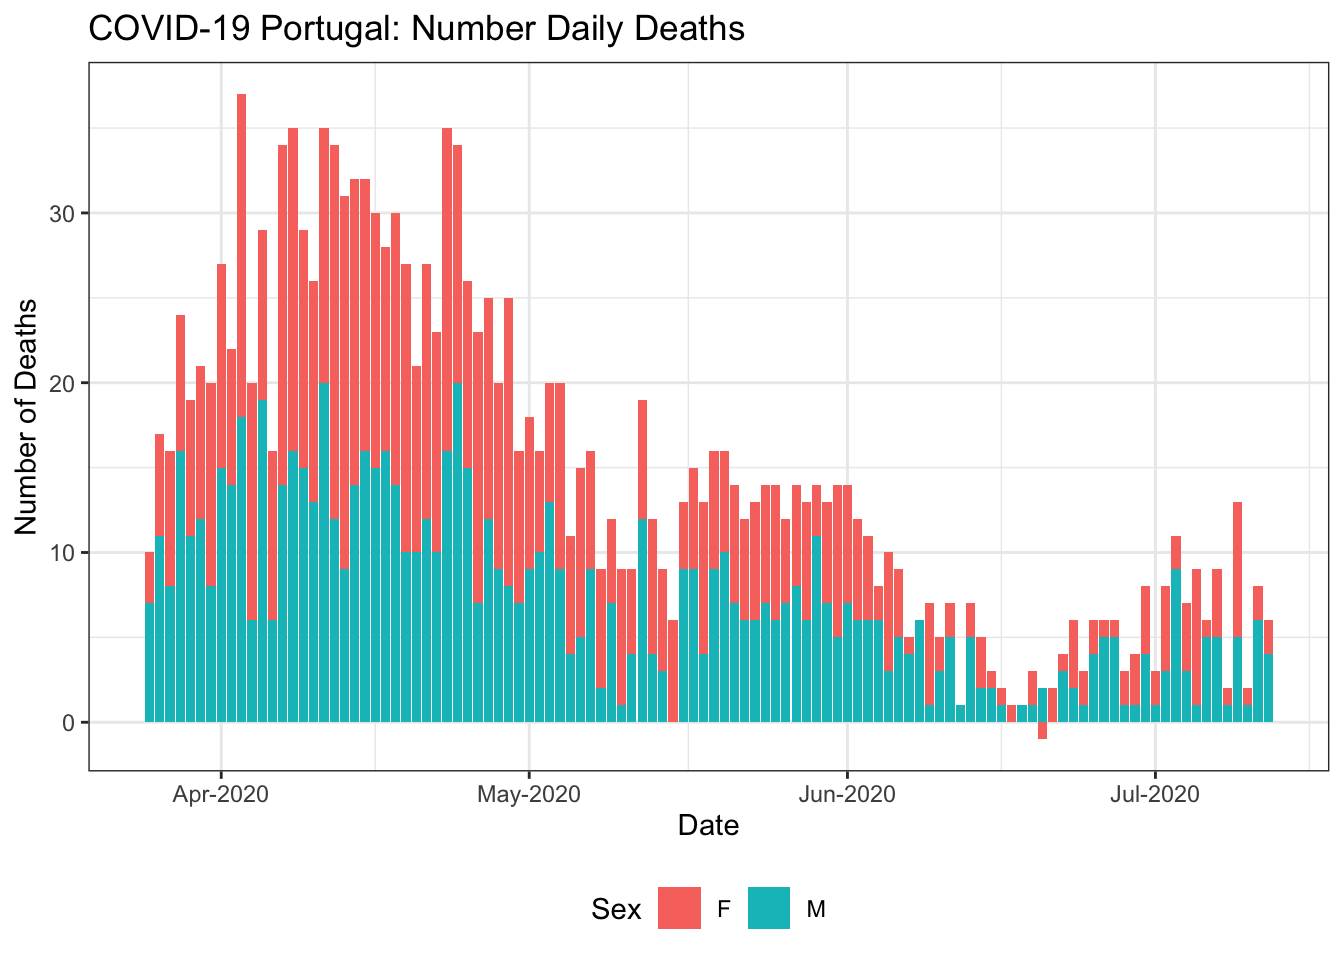
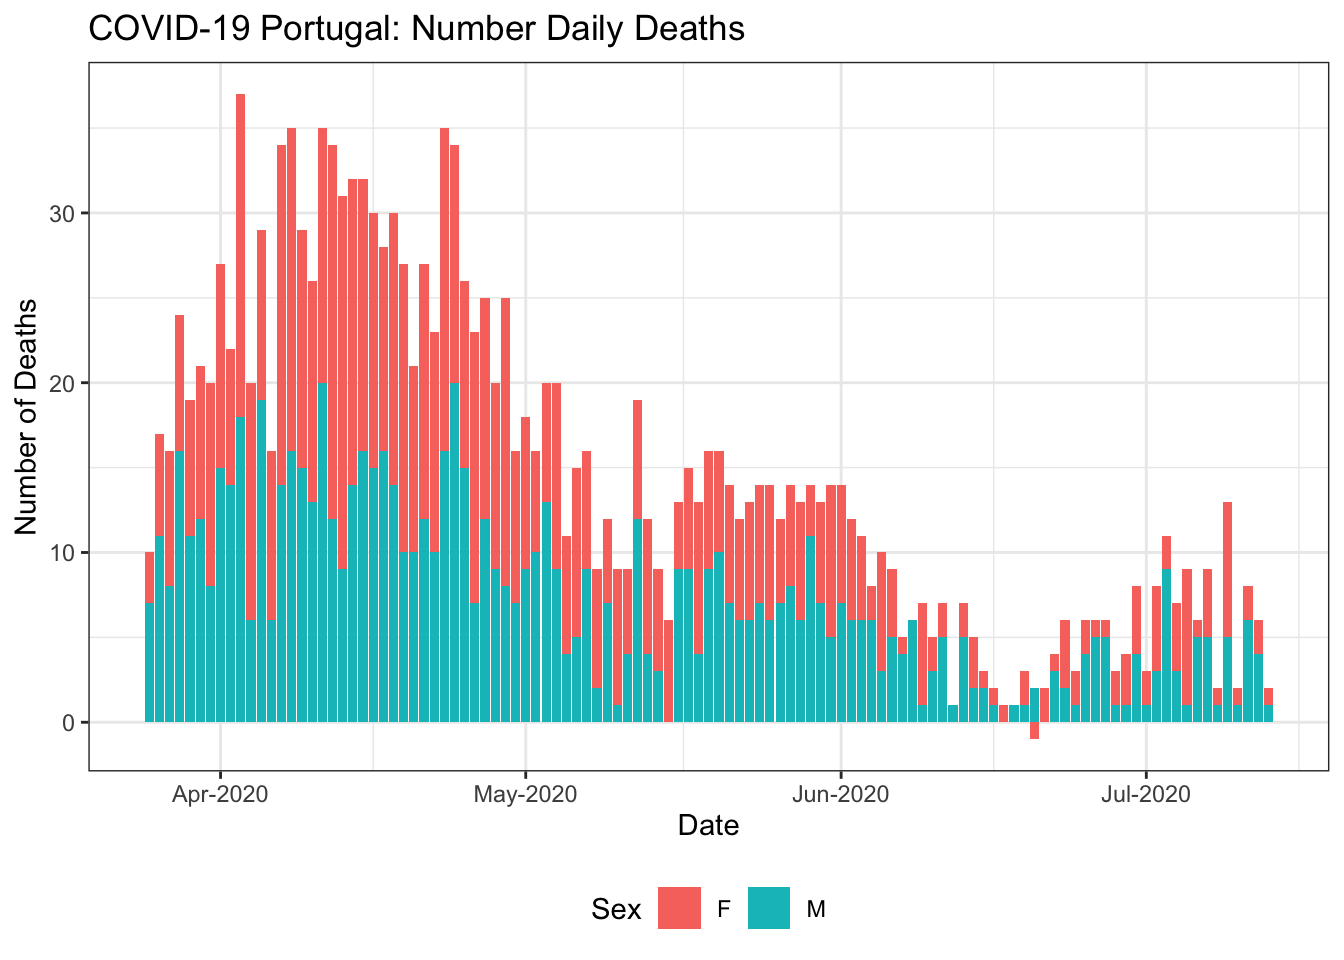
Data Update & Re-build README.Rmd

diff --git a/README.md b/README.md
@@ -1,9 +1,9 @@
 
 ## Daily Portuguese COVID-19 Data
 
-**Last updated: Mon 13 Jul 2020 (03:26:04 UTC \[+0000\])**
+**Last updated: Mon 13 Jul 2020 (15:25:41 UTC \[+0000\])**
 
-  - Data available from **26 Feb 2020** until **12 Jul 2020** (138
+  - Data available from **26 Feb 2020** until **13 Jul 2020** (139
     days).
 
 ### Download User Friendly Version
@@ -48,7 +48,7 @@ suppressPackageStartupMessages(library(here)) # library(here)
 # Read in data as a data.frame and data.table object.
 CV <- fread(here("data", "covid19pt_DSSG_Long.csv"))
 str(CV)
-## Classes 'data.table' and 'data.frame':   11592 obs. of  12 variables:
+## Classes 'data.table' and 'data.frame':   11676 obs. of  12 variables:
 ##  $ data       : chr  "2020-02-26" "2020-02-27" "2020-02-28" "2020-02-29" ...
 ##  $ origVars   : chr  "cadeias_transmissao" "cadeias_transmissao" "cadeias_transmissao" "cadeias_transmissao" ...
 ##  $ origType   : chr  "cadeias" "cadeias" "cadeias" "cadeias" ...
@@ -111,7 +111,7 @@ CV[origType=="confirmados" & ageGrp=="" & region!="Portugal"] %>%
     y = "Number of Confirmed Cases",
     colour = "Region")
 ## Warning: Transformation introduced infinite values in continuous y-axis
-## Warning: Removed 122 row(s) containing missing values (geom_path).
+## Warning: Removed 123 row(s) containing missing values (geom_path).
 ```
 
 <img src="README_figs/README-casesbyRegion-1.png" width="672" />
@@ -140,9 +140,9 @@ CV[dailyChange<0 & !(origType %in% c("vigilancia", "internados"))][
 ##   4: 2020-03-24 confirmados   confirmados_40_49_f   224          -2
 ##   5: 2020-03-19 confirmados   confirmados_60_69_f    35         -14
 ##  ---                                                               
-## 155: 2020-04-04      obitos    obitos_arsalentejo     0          -1
-## 156: 2020-05-23      obitos      obitos_arscentro   230          -3
-## 157: 2020-07-03      obitos      obitos_arscentro   248          -1
-## 158: 2020-06-20      obitos              obitos_f   768          -1
-## 159: 2020-05-21 transmissao transmissao_importada   767          -3
+## 156: 2020-04-04      obitos    obitos_arsalentejo     0          -1
+## 157: 2020-05-23      obitos      obitos_arscentro   230          -3
+## 158: 2020-07-03      obitos      obitos_arscentro   248          -1
+## 159: 2020-06-20      obitos              obitos_f   768          -1
+## 160: 2020-05-21 transmissao transmissao_importada   767          -3
 ```
